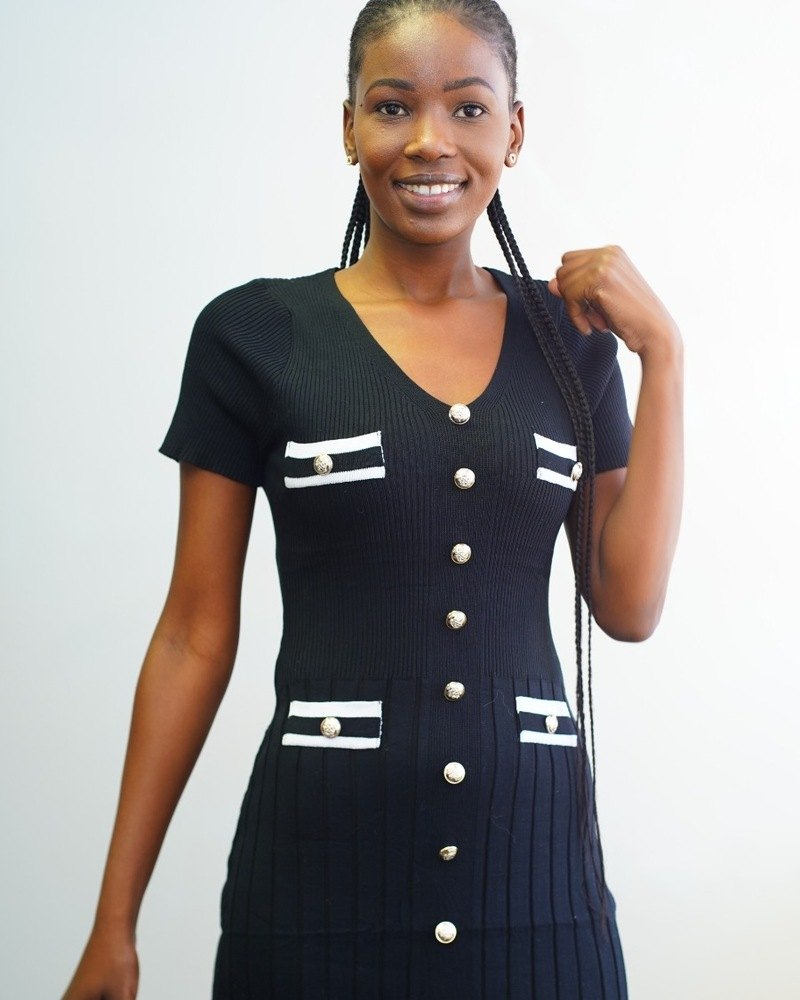
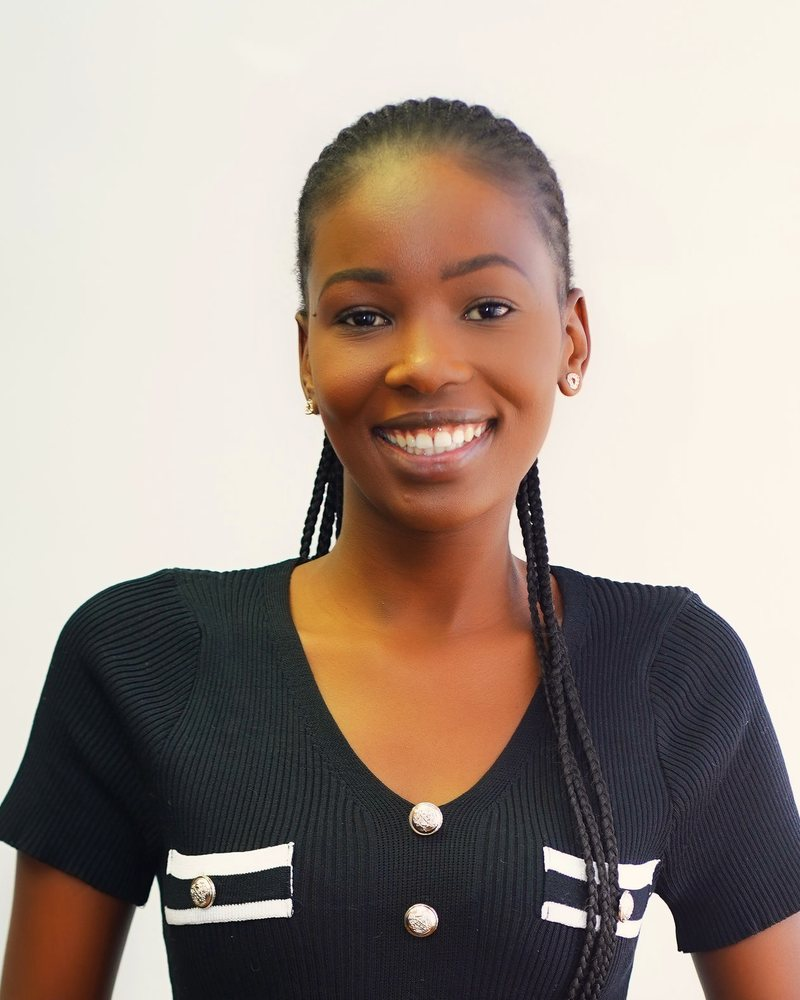
Use the 2026 photoshoot across the site and add an Inside the firm page
New edited team portraits (one matching white-wall shot each), real office,
meeting and team photos on home, about, practice areas, plus a new
/the-firm page with an office gallery and a first-visit walkthrough.

Claude-Session: https://claude.ai/code/session_01Lns7KxegDhs8DDP56GkdJR

diff --git a/lib/site.ts b/lib/site.ts
@@ -94,6 +94,7 @@ export type Service = {
 export const services: Service[] = [
   {
     slug: "deceased-estates",
+    image: "/images/firm/consultation.jpg",
     title: "Deceased estates & fiduciary services",
     short: "Deceased estates",
     label: "Fiduciary services",
@@ -118,11 +119,11 @@ export const services: Service[] = [
       { title: "We settle the debts", text: "Creditors' claims are checked and paid, and assets are valued or sold if needed." },
       { title: "We pay the heirs", text: "Once the L&D Account is approved, we pay out to the heirs and close the file with the Master." },
     ],
-    image: "/images/deceased-estates.jpg",
     lead: true,
   },
   {
     slug: "litigation",
+    image: "/images/firm/director-standing.jpg",
     title: "Civil & commercial litigation",
     short: "Civil & commercial litigation",
     label: "Litigation",
@@ -147,6 +148,7 @@ export const services: Service[] = [
   },
   {
     slug: "corporate-commercial",
+    image: "/images/firm/boardroom.jpg",
     title: "Corporate & commercial law",
     short: "Corporate & commercial law",
     label: "Corporate & commercial",
@@ -170,6 +172,7 @@ export const services: Service[] = [
   },
   {
     slug: "family-law",
+    image: "/images/firm/director-consult.jpg",
     title: "Family & matrimonial law",
     short: "Family & matrimonial law",
     label: "Family law",
@@ -193,6 +196,7 @@ export const services: Service[] = [
   },
   {
     slug: "property-general",
+    image: "/images/firm/desk-wide.jpg",
     title: "Property law & general practice",
     short: "Property & general practice",
     label: "Property & general",
@@ -307,3 +311,24 @@ export function waLink(message: string) {
 export function mapLink(query: string) {
   return `https://www.google.com/maps/search/?api=1&query=${encodeURIComponent(query)}`;
 }
+
+// Photos from the firm's 2026 photoshoot (public/images/firm), used on the "Inside the firm" page.
+export type Photo = { src: string; alt: string; caption: string; tall?: boolean };
+
+export const officePhotos: Photo[] = [
+  { src: "/images/firm/logo-wall.jpg", alt: "The firm's logo on the reception wall", caption: "Equal Justice For All: the words on our wall, and the way we work.", tall: true },
+  { src: "/images/firm/reception-thandiwe.jpg", alt: "Candidate attorney Thandiwe Khumalo at reception", caption: "Reception, where every visit starts." },
+  { src: "/images/firm/boardroom.jpg", alt: "The team in a meeting around the boardroom table", caption: "Matters are discussed as a team, with the Director at the table." },
+  { src: "/images/firm/glass-door.jpg", alt: "Glass office door with the firm's logo", caption: "Private consultation rooms for confidential conversations.", tall: true },
+  { src: "/images/firm/consultation.jpg", alt: "Two team members in a consultation with documents and a laptop", caption: "Estate files are worked through line by line." },
+  { src: "/images/firm/director-desk.jpg", alt: "The Director at his desk", caption: "The Director supervises every legal file and estate account.", tall: true },
+  { src: "/images/firm/on-the-phone.jpg", alt: "Estate administrator Xolelwa Ngwane on the phone at her desk", caption: "A real person answers, and calls you back.", tall: true },
+  { src: "/images/firm/boardroom-2.jpg", alt: "Team members reviewing papers in a meeting", caption: "Every file has a named person working on it." },
+];
+
+export const firstVisit = [
+  { title: "You're welcomed at reception", text: "Tell us your name and why you've come. Bring your ID and any documents you have, such as a death certificate, contract, lease or court papers.", photo: "/images/firm/reception-phumudzo.jpg" },
+  { title: "A private consultation", text: "We sit down with you in a consultation room, listen to what happened and explain your options in plain language.", photo: "/images/firm/consultation-2.jpg" },
+  { title: "Your file gets a team", text: "Your matter is given to the right person, from the estate team to the candidate attorneys, under the Director's supervision.", photo: "/images/firm/boardroom-2.jpg" },
+  { title: "You're kept up to date", text: "We let you know when something happens on your file, including on WhatsApp. Need an update? Just ask.", photo: "/images/firm/director-standing.jpg" },
+];

diff --git a/app/the-firm/page.tsx b/app/the-firm/page.tsx
@@ -1,0 +1,81 @@
+import type { Metadata } from "next";
+import Image from "next/image";
+import Link from "next/link";
+import { CtaBand, OfficeCards } from "@/components/Sections";
+import { firstVisit, officePhotos } from "@/lib/site";
+
+export const metadata: Metadata = {
+  title: "Inside the firm",
+  description: "See our offices and the people who will work on your matter, and what happens when you visit Nemadzivhanani R Inc Attorneys.",
+};
+
+export default function TheFirm() {
+  return (
+    <>
+      <section className="page-head navy">
+        <div className="wrap">
+          <div className="lbl">Inside the firm</div>
+          <h1 className="h-big" style={{ marginTop: 10 }}>No closed doors.</h1>
+          <p className="lead">
+            You should know who you are trusting with your matter. This is our office, our team and how we work, so you know what to
+            expect before you walk in.
+          </p>
+        </div>
+      </section>
+
+      <div className="group-photo">
+        <Image src="/images/firm/team-seated.jpg" alt="The Nemadzivhanani R Inc team together at the office" fill sizes="100vw" priority />
+      </div>
+
+      {/* Gallery */}
+      <section className="sec white">
+        <div className="wrap">
+          <div className="lbl">Our office</div>
+          <h2 className="h2" style={{ marginTop: 8, marginBottom: 20 }}>Where your matter is handled</h2>
+          <div className="gallery">
+            {officePhotos.map((p) => (
+              <figure key={p.src} className={p.tall ? "tall" : undefined}>
+                <div className="g-pic">
+                  <Image src={p.src} alt={p.alt} fill sizes="(min-width: 1080px) 33vw, (min-width: 760px) 50vw, 100vw" />
+                </div>
+                <figcaption>{p.caption}</figcaption>
+              </figure>
+            ))}
+          </div>
+        </div>
+      </section>
+
+      {/* First visit */}
+      <section className="sec">
+        <div className="wrap">
+          <div className="lbl">Your first visit</div>
+          <h2 className="h2" style={{ marginTop: 8, marginBottom: 20 }}>What happens when you come in</h2>
+          <ol className="visit">
+            {firstVisit.map((v, i) => (
+              <li key={v.title}>
+                <div className="v-pic">
+                  <Image src={v.photo} alt="" fill sizes="(min-width: 1080px) 25vw, (min-width: 760px) 50vw, 100vw" />
+                  <span className="v-num" aria-hidden="true">{i + 1}</span>
+                </div>
+                <h3>{v.title}</h3>
+                <p>{v.text}</p>
+              </li>
+            ))}
+          </ol>
+          <Link className="btn btn-line inline" href="/team" style={{ marginTop: 22 }}>
+            Meet the people on your matter <span className="arrow" aria-hidden="true">→</span>
+          </Link>
+        </div>
+      </section>
+
+      <section className="sec white">
+        <div className="wrap">
+          <h2 className="h2" style={{ marginBottom: 20 }}>Visit one of our offices</h2>
+          <OfficeCards />
+        </div>
+      </section>
+
+      <CtaBand title="Come and see us." />
+    </>
+  );
+}

diff --git a/app/page.tsx b/app/page.tsx
@@ -34,6 +34,10 @@ export default function Home() {
         </div>
       </section>
 
+      <div className="photo-band">
+        <Image src="/team/team-group.jpg" alt="Director Rabelani Nemadzivhanani with the Nemadzivhanani R Inc team" fill sizes="100vw" priority />
+      </div>
+
       {/* Why us */}
       <section className="sec">
         <div className="wrap">
@@ -53,7 +57,7 @@ export default function Home() {
               </Link>
             </div>
             <div style={{ position: "relative", minHeight: 260 }}>
-              <Image src="/team/team-group.jpg" alt="The Nemadzivhanani R Inc team" fill sizes="(min-width: 760px) 33vw, 100vw" style={{ objectFit: "cover" }} />
+              <Image src="/images/firm/director-logo.jpg" alt="Director Rabelani Nemadzivhanani at the firm's reception" fill sizes="(min-width: 760px) 33vw, 100vw" style={{ objectFit: "cover", objectPosition: "center 25%" }} />
             </div>
             <div className="deep" style={{ padding: "24px 20px" }}>
               <div className="lbl" style={{ color: "var(--gold)" }}>Already a client?</div>
@@ -145,6 +149,9 @@ export default function Home() {
           <TeamGrid limit={3} />
           <Link className="btn btn-line inline" href="/team" style={{ marginTop: 18 }}>
             Meet the whole team <span className="arrow" aria-hidden="true">→</span>
+          </Link>{" "}
+          <Link className="btn btn-line inline" href="/the-firm" style={{ marginTop: 18 }}>
+            See inside our office <span className="arrow" aria-hidden="true">→</span>
           </Link>
         </div>
       </section>

diff --git a/app/globals.css b/app/globals.css
@@ -253,3 +253,29 @@ h1, h2, h3, h4 { line-height: 1.08; letter-spacing: -0.01em; }
 .hours div { display: flex; justify-content: space-between; gap: 10px; }
 .hours dt { color: var(--muted); }
 .hours dd { font-weight: 700; white-space: nowrap; }
+
+/* inside the firm: gallery + first visit */
+.gallery { columns: 1; column-gap: 16px; }
+.gallery figure { margin: 0 0 16px; background: var(--cream); break-inside: avoid; }
+.g-pic { position: relative; aspect-ratio: 16 / 10; }
+.gallery .tall .g-pic { aspect-ratio: 4 / 5; }
+.g-pic img, .v-pic img { object-fit: cover; }
+.gallery figcaption { padding: 12px 14px; font-size: .92rem; color: var(--muted); border-top: 3px solid var(--gold); }
+.visit { list-style: none; display: grid; gap: 22px; }
+.visit li { background: #fff; }
+.v-pic { position: relative; aspect-ratio: 4 / 3; }
+.v-num { position: absolute; left: 0; bottom: 0; width: 44px; height: 44px; background: var(--navy); color: var(--gold); font-weight: 900; font-size: 1.2rem; display: flex; align-items: center; justify-content: center; }
+.visit h3 { font-size: 1.15rem; padding: 14px 16px 4px; }
+.visit p { font-size: .92rem; color: var(--muted); padding: 0 16px 16px; }
+.photo-band { position: relative; width: 100%; height: 300px; }
+.photo-band img { object-fit: cover; object-position: center 35%; }
+@media (min-width: 760px) {
+  .gallery { columns: 2; }
+  .visit { grid-template-columns: 1fr 1fr; }
+  .photo-band { height: 440px; }
+}
+@media (min-width: 1080px) {
+  .gallery { columns: 3; }
+  .visit { grid-template-columns: repeat(4, 1fr); }
+  .photo-band { height: 560px; }
+}

diff --git a/app/about/page.tsx b/app/about/page.tsx
@@ -29,7 +29,7 @@ export default function About() {
       <section className="sec white">
         <div className="wrap split">
           <div style={{ position: "relative", minHeight: 420 }}>
-            <Image src={director.photo} alt={`${director.name}, ${director.role}`} fill sizes="(min-width: 760px) 50vw, 100vw" style={{ objectFit: "cover", objectPosition: "top" }} />
+            <Image src="/images/firm/director-logo.jpg" alt={`${director.name}, ${director.role}, at the firm's reception`} fill sizes="(min-width: 760px) 50vw, 100vw" style={{ objectFit: "cover", objectPosition: "center 20%" }} />
           </div>
           <div>
             <div className="lbl">Founder &amp; Director</div>
@@ -42,6 +42,9 @@ export default function About() {
             </p>
             <Link className="btn btn-line" href="/team">
               Meet the whole team <span className="arrow" aria-hidden="true">→</span>
+            </Link>
+            <Link className="btn btn-line" href="/the-firm">
+              See inside our office <span className="arrow" aria-hidden="true">→</span>
             </Link>
           </div>
         </div>

diff --git a/app/sitemap.ts b/app/sitemap.ts
@@ -2,6 +2,6 @@ import type { MetadataRoute } from "next";
 import { firm, services } from "@/lib/site";
 
 export default function sitemap(): MetadataRoute.Sitemap {
-  const paths = ["", "/practice-areas", "/about", "/team", "/contact", "/existing-clients", "/legal", ...services.map((s) => `/practice-areas/${s.slug}`)];
+  const paths = ["", "/practice-areas", "/about", "/the-firm", "/team", "/contact", "/existing-clients", "/legal", ...services.map((s) => `/practice-areas/${s.slug}`)];
   return paths.map((p) => ({ url: `${firm.siteUrl}${p}` }));
 }

diff --git a/components/Footer.tsx b/components/Footer.tsx
@@ -45,6 +45,7 @@ export default function Footer() {
             <h4>The firm</h4>
             <ul>
               <li><Link href="/about">About us</Link></li>
+              <li><Link href="/the-firm">Inside the firm</Link></li>
               <li><Link href="/team">Our team</Link></li>
               <li><Link href="/existing-clients">Existing clients</Link></li>
               <li><Link href="/legal#privacy">Privacy &amp; POPIA</Link></li>

diff --git a/app/practice-areas/[slug]/page.tsx b/app/practice-areas/[slug]/page.tsx
@@ -46,8 +46,8 @@ export default async function ServicePage(props: PageProps<"/practice-areas/[slu
       </section>
 
       {s.image && (
-        <div style={{ position: "relative", height: 260 }}>
-          <Image src={s.image} alt="" fill sizes="100vw" style={{ objectFit: "cover" }} />
+        <div className="photo-band">
+          <Image src={s.image} alt="" fill sizes="100vw" />
         </div>
       )}
 

diff --git a/components/Header.tsx b/components/Header.tsx
@@ -8,6 +8,7 @@ const links = [
   { href: "/practice-areas", label: "Practice areas" },
   { href: "/practice-areas/deceased-estates", label: "Lost a loved one" },
   { href: "/about", label: "About" },
+  { href: "/the-firm", label: "Inside the firm" },
   { href: "/team", label: "Our team" },
   { href: "/contact", label: "Contact" },
 ];
